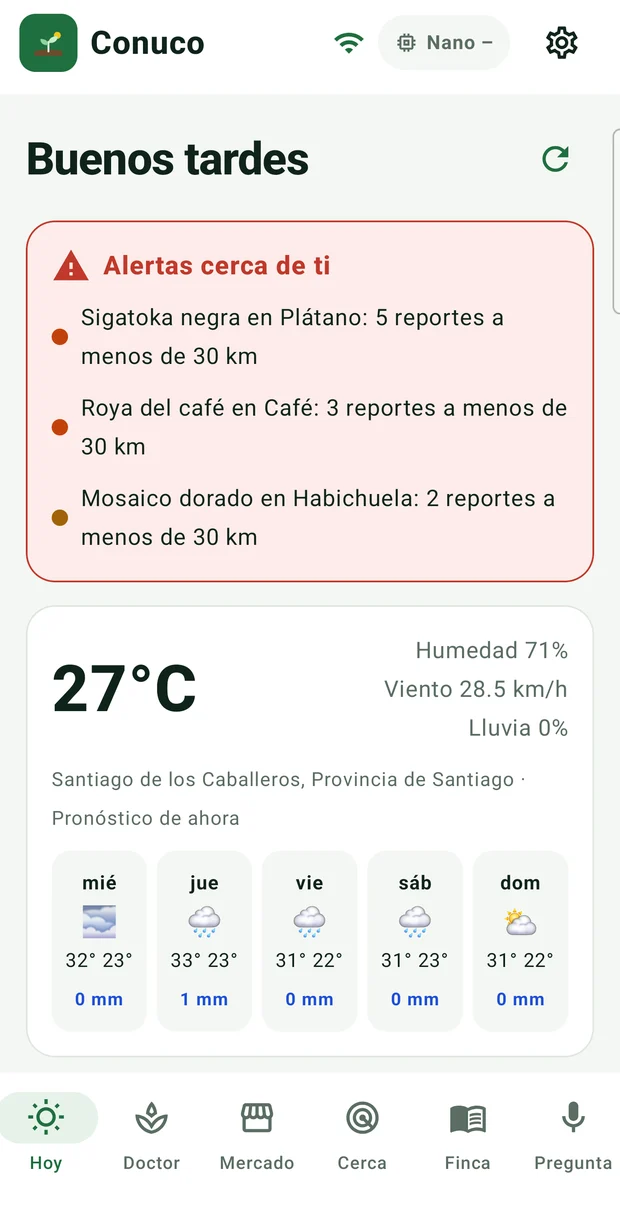
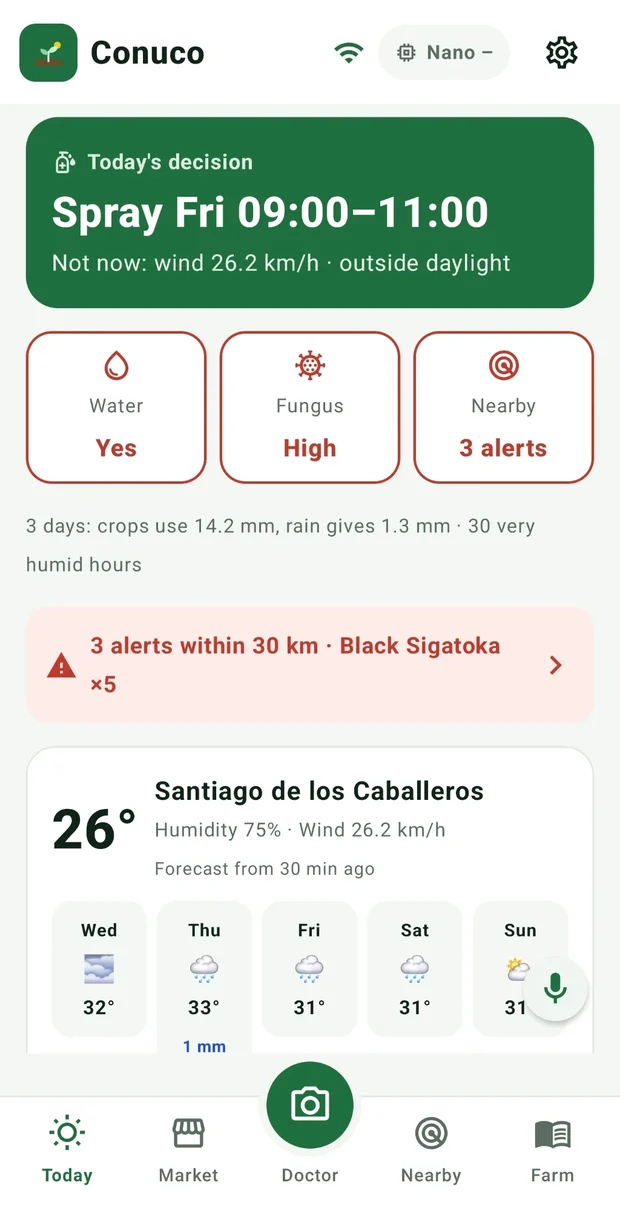
Landing: hero mockups show the redesigned Today and My farm screens

diff --git a/web/index.html b/web/index.html
@@ -36,8 +36,8 @@
     <p class="small muted">Spanish and English · built for the Dominican Republic first, works anywhere · free, no ads</p>
   </div>
   <div class="shots">
-    <figure class="phone back"><img src="assets/screen-doctor.webp" width="620" height="1206" alt="Conuco crop doctor screen on Android: pick a crop, take a photo, choose private on-device analysis" loading="eager"></figure>
-    <figure class="phone front"><img src="assets/screen-home.webp" width="620" height="1206" alt="Conuco home screen on Android: outbreak alerts within 30 km and a 5-day forecast for Santiago, Dominican Republic" fetchpriority="high"></figure>
+    <figure class="phone back"><img src="assets/screen-farm.webp?v=2" width="620" height="1211" alt="Conuco My farm screen on Android: spent and earned this month, profit, dictate an entry, plots with harvest progress rings" loading="eager"></figure>
+    <figure class="phone front"><img src="assets/screen-home.webp?v=2" width="620" height="1211" alt="Conuco Today screen on Android: today's spray decision, water, fungus and nearby-alert tiles, outbreak alerts and the forecast for Santiago" fetchpriority="high"></figure>
     <p class="shots-cap">Real screens from the Android app · Gemini Nano on the phone</p>
   </div>
 </section>
